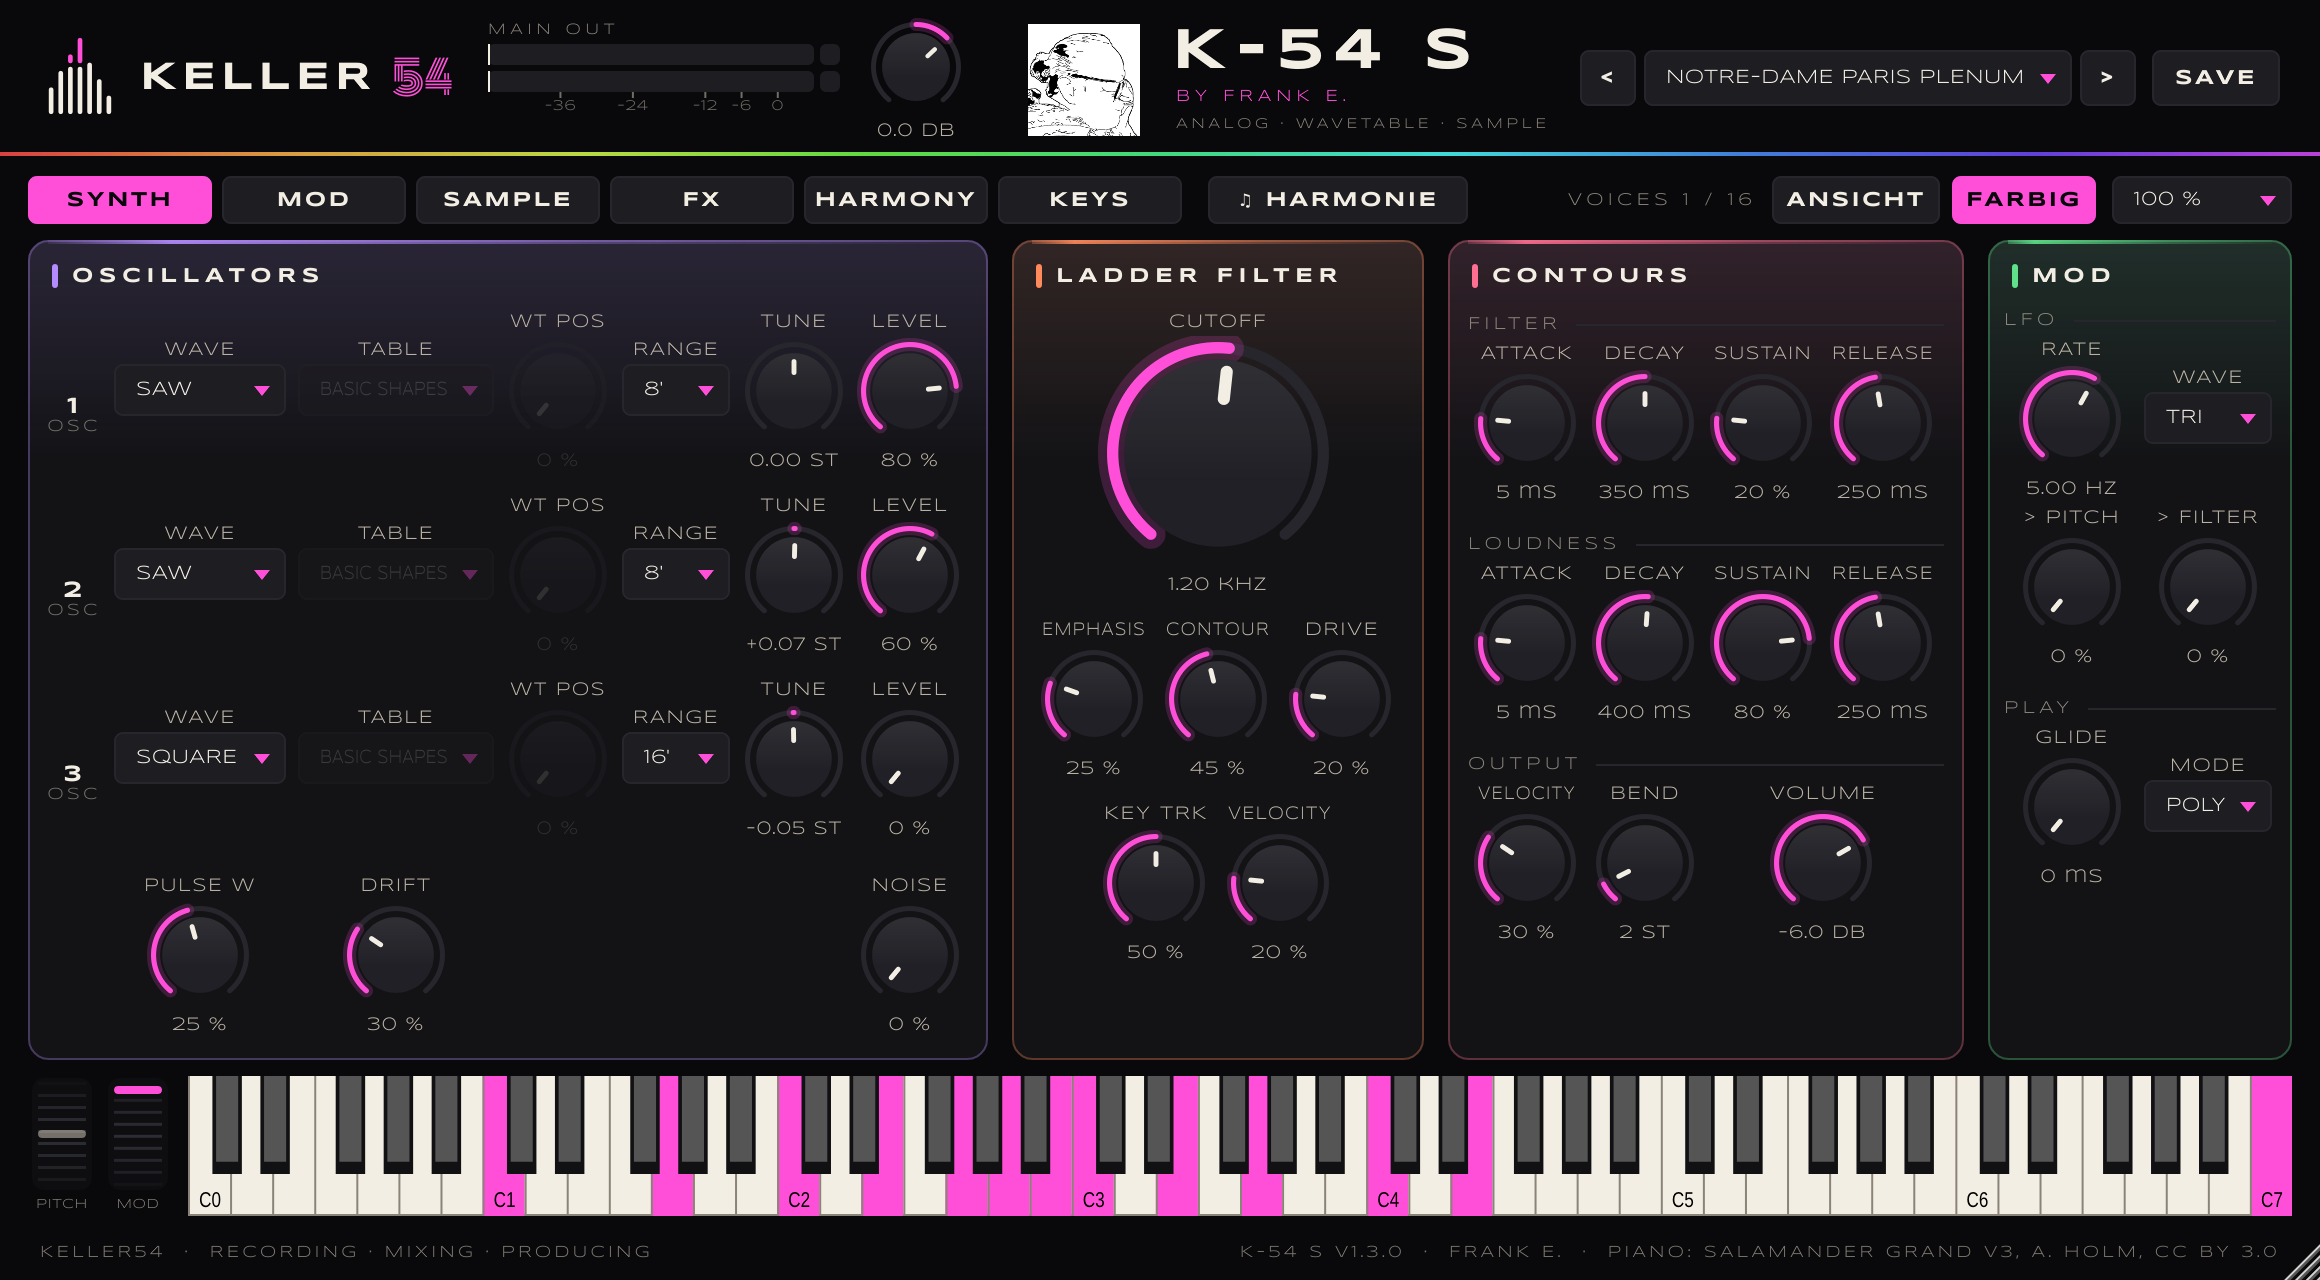
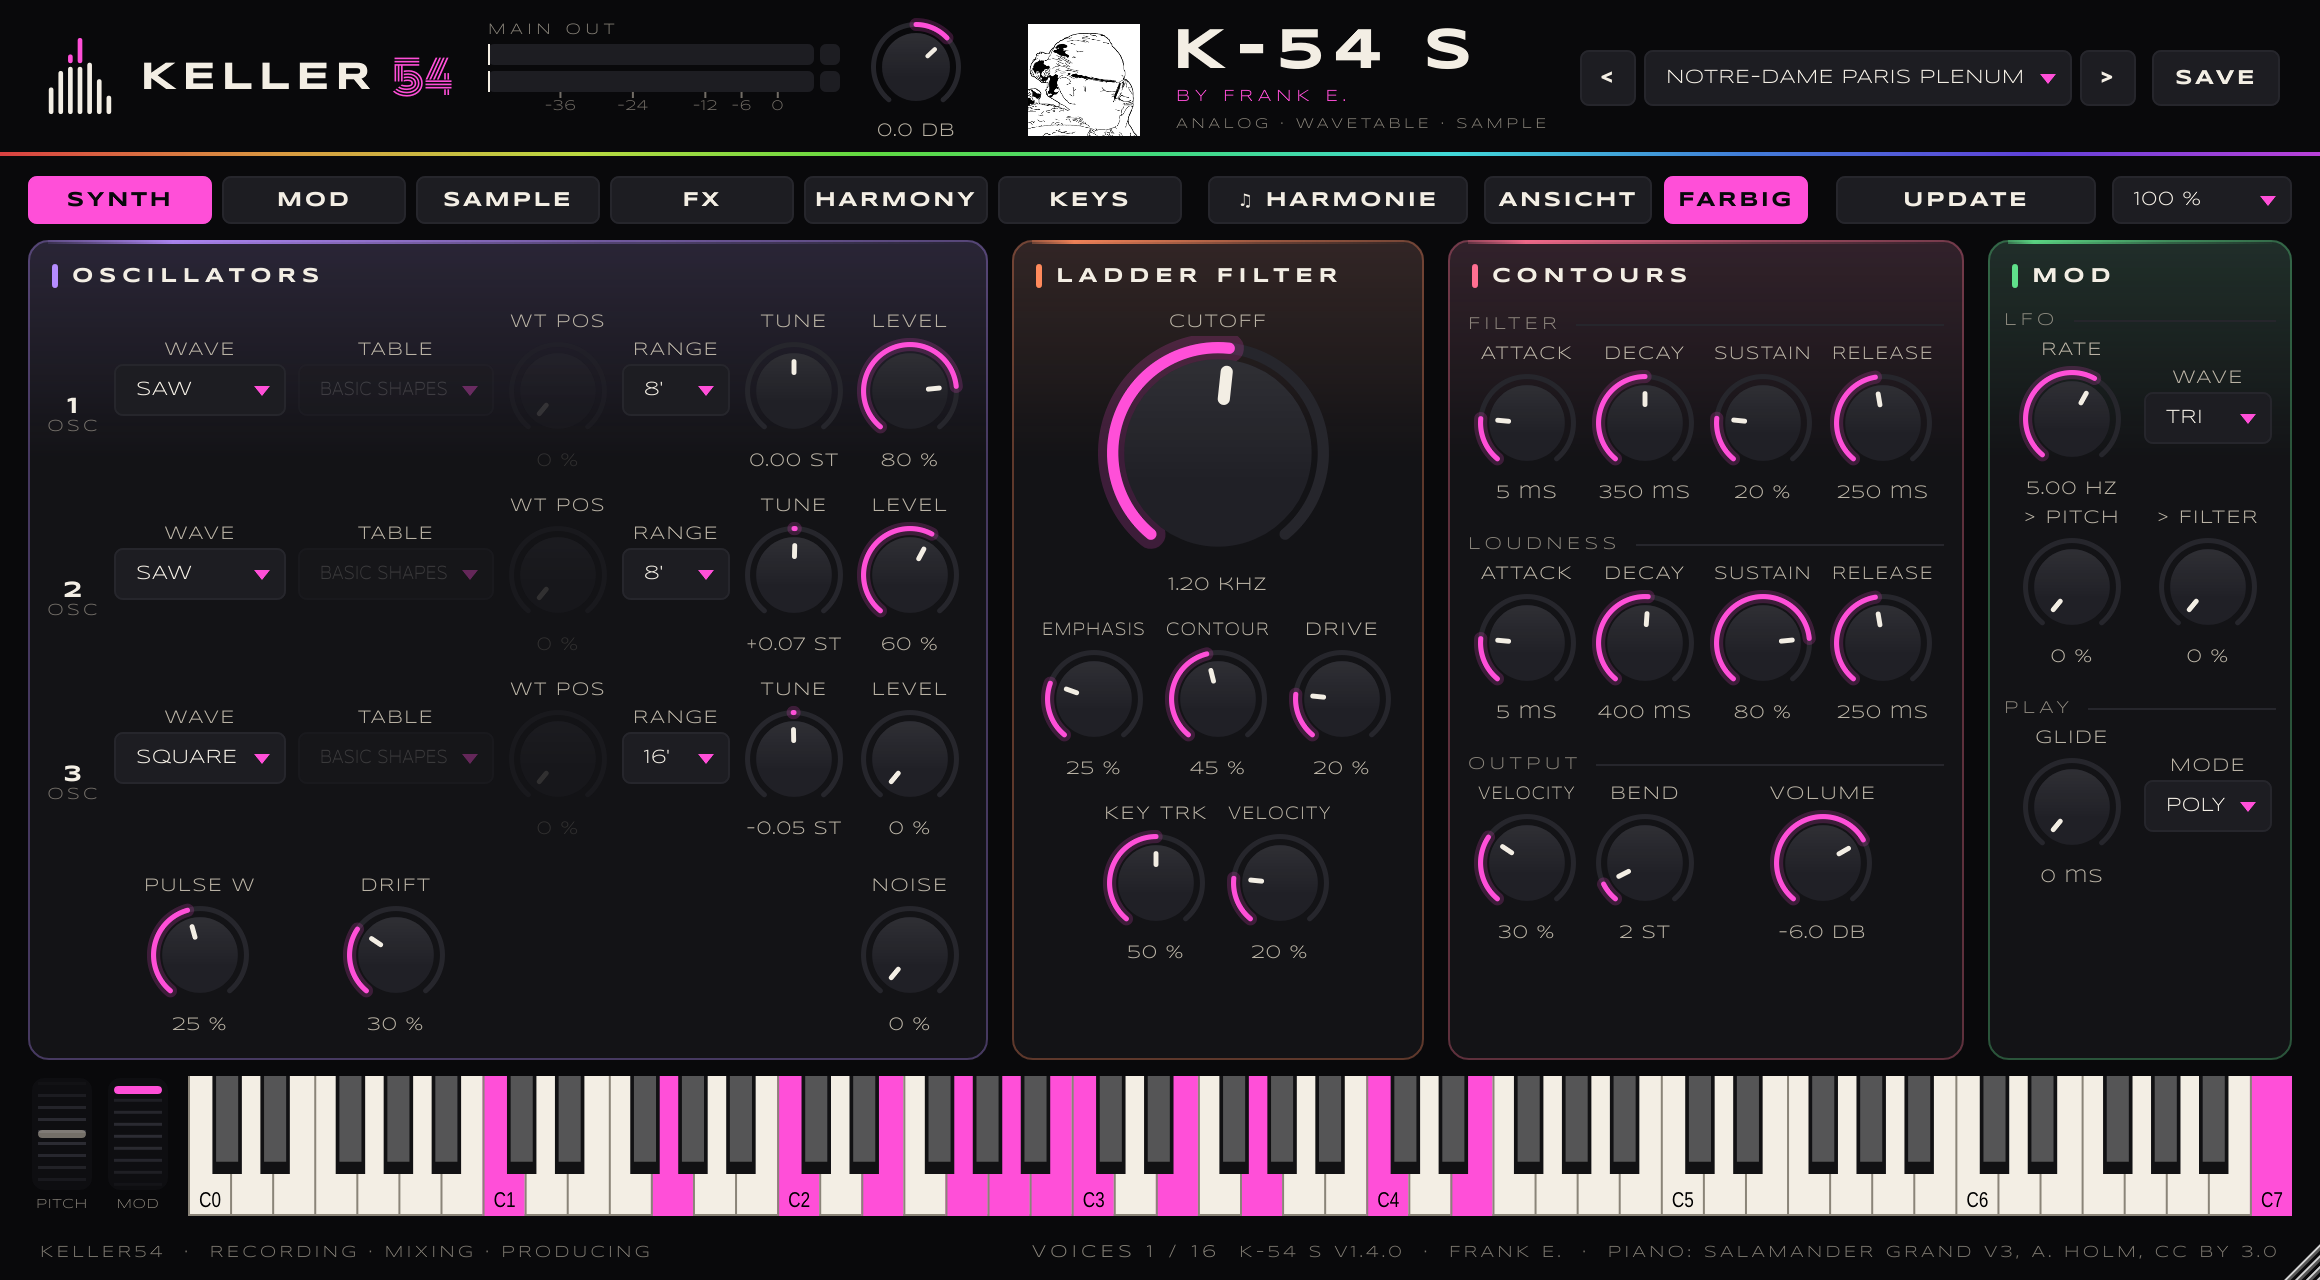
K-54 S 1.4.0: ANSICHT auf Basis von 1.3.1 (UPDATE-Knopf wiederhergestellt)
Der vorige Commit hatte die 1.3.1-Aenderungen in K54S versehentlich ueberschrieben.

Claude-Session: https://claude.ai/code/session_017GGZGhwxMZ4Brd2VF8tNCh

Changed region(s): [[0.6517, 0.125, 0.9, 0.1875]]

diff --git a/K54S/Source/PluginEditor.cpp b/K54S/Source/PluginEditor.cpp
@@ -56,6 +56,13 @@ K55Main::K55Main (K55Processor& p)
     addChildComponent (fxPanel);
     addChildComponent (keysPanel);
     keysTab.setTooltip ("KEYS-Ebene: Funk Clav, Tine Piano, Tonewheel + Leslie, Kirchenorgeln der Welt, FM, Blues Harp - und Talkbox");
+    // UPDATE-Knopf (rechts in der Reiterzeile) + Update-Fenster
+    addAndMakeVisible (updateButton);
+    updateButton.setTooltip ("Neue Version von keller54.de laden - deine Einstellungen, Presets und Samples bleiben erhalten");
+    updateButton.onClick = [this] { updatePanel.setVisible (true); updatePanel.toFront (true); };
+    updatePanel.onClose = [this] { updatePanel.setVisible (false); };
+    addChildComponent (updatePanel);
+    updater->checkNow (false);   // leise im Hintergrund, hoechstens alle 6 Stunden
     addAndMakeVisible (pitchWheel);
     addAndMakeVisible (modWheel);
     pitchWheel.setTooltip ("Pitch-Wheel (folgt deinem Keyboard, mit der Maus ziehbar)");
@@ -271,9 +278,11 @@ void K55Main::resized()
         harmButton.setBounds (x + 8, headerH + 10, 130, 24);
     }
     sizeBox.setBounds (W - 14 - 90, headerH + 10, 90, 24);
-    colorButton.setBounds (W - 14 - 90 - 8 - 72, headerH + 10, 72, 24);
-    viewButton.setBounds (colorButton.getX() - 6 - 84, headerH + 10, 84, 24);
-    statusArea = { harmButton.getRight() + 8, headerH + 10, viewButton.getX() - 8 - harmButton.getRight() - 8, 24 };
+    updateButton.setBounds (W - 14 - 90 - 8 - 130, headerH + 10, 130, 24);
+    viewButton.setBounds (harmButton.getRight() + 8, headerH + 10, 84, 24);
+    colorButton.setBounds (viewButton.getRight() + 6, headerH + 10, 72, 24);
+    statusArea = { 330, H - footerH, 280, footerH };   // VOICES jetzt in der Fusszeile
+    updatePanel.setBounds (getLocalBounds());
     if (viewPanel != nullptr) viewPanel->setBounds (getLocalBounds());
 
     const int top = headerH + 12 + tabH, bodyH = H - headerH - tabH - keyboardH - footerH - 24;
@@ -637,6 +646,19 @@ void K55Main::timerCallback()
     const int v = proc.voicesActive.load();
     const bool pl = proc.isPianoLoading();
     if (v != voices || pl != pianoLoading) { voices = v; pianoLoading = pl; repaint (statusArea); }
+
+    // UPDATE-Knopf: gold, sobald eine neue Version bereitsteht
+    {
+        const auto st = updater->get();
+        const juce::String label = st.updateAvailable ? "UPDATE " + st.latest : juce::String ("UPDATE");
+        if (label != lastUpdateLabel)
+        {
+            lastUpdateLabel = label;
+            updateButton.setButtonText (label);
+            updateButton.setClickingTogglesState (false);
+            updateButton.setToggleState (st.updateAvailable, juce::dontSendNotification);
+        }
+    }
 
     // Table / Pos nur aktiv, wenn der Oszillator auf WAVETABLE steht (nur bei Aenderung anfassen)
     for (int i = 0; i < 3; ++i)

diff --git a/K54S/Source/PluginEditor.h b/K54S/Source/PluginEditor.h
@@ -6,6 +6,7 @@
 #include "SamplePanel.h"
 #include "HarmonyPanel.h"
 #include "KeysPanel.h"
+#include "UpdatePanel.h"
 #include "SynthView.h"
 
 // ---------------------------------------------------------------------------
@@ -214,6 +215,10 @@ private:
     SamplePanel samplePanel;
     FxPanel fxPanel;
     KeysPanel keysPanel;
+    juce::SharedResourcePointer<K54SUpdater> updater;
+    juce::TextButton updateButton { "UPDATE" };
+    UpdatePanel updatePanel { *updater };
+    juce::String lastUpdateLabel;
     int currentPage = 0, voices = 0;
     bool pianoLoading = false;
     int lastWave[3] { -1, -1, -1 };

diff --git a/K54S/RELEASE_NOTES.md b/K54S/RELEASE_NOTES.md
@@ -5,7 +5,12 @@ Neu in 1.4.0 – ANSICHT, so wie du es brauchst:
 - Farbige Oberfläche: jede Sektion mit eigener Akzentfarbe, Regenbogenlinie unter dem Kopf – oder schlicht wie bisher
 - Schnellumschalter FARBIG oben
 - Ansichten speichern: eigene Ansichten unter einem Namen sichern und mit einem Klick wechseln
-- Die Ansicht gilt für alle Projekte
+- Die Ansicht gilt für alle Projekte; die Stimmen-Anzeige steht jetzt unten in der Fußzeile
+
+Neu in 1.3.1 – Updates direkt im Plugin (Beta):
+- Neuer Knopf UPDATE oben rechts: wird gold, sobald es auf keller54.de eine neue Version gibt
+- Ein Klick lädt das Update (mit Prüfsumme) und startet den Installer – deine Einstellungen, Presets, Samples und DAW-Projekte bleiben erhalten
+- Gemeinsames Keller54-Konto: ist der K-54 schon verbunden, ist der K-54 S es auch
 
 Neu in 1.3.0 – Kirchenorgeln näher am Original (Beta):
 - Paris Notre-Dame nach der echten Disposition: Flûte harmonique, Montre, Prestant, Doublette, Plein-Jeu V, französische Trompette/Clairon/Bombarde, Cornet V und Trompettes en chamade; im Tutti Pedal mit 32' und Contre-Bombarde
